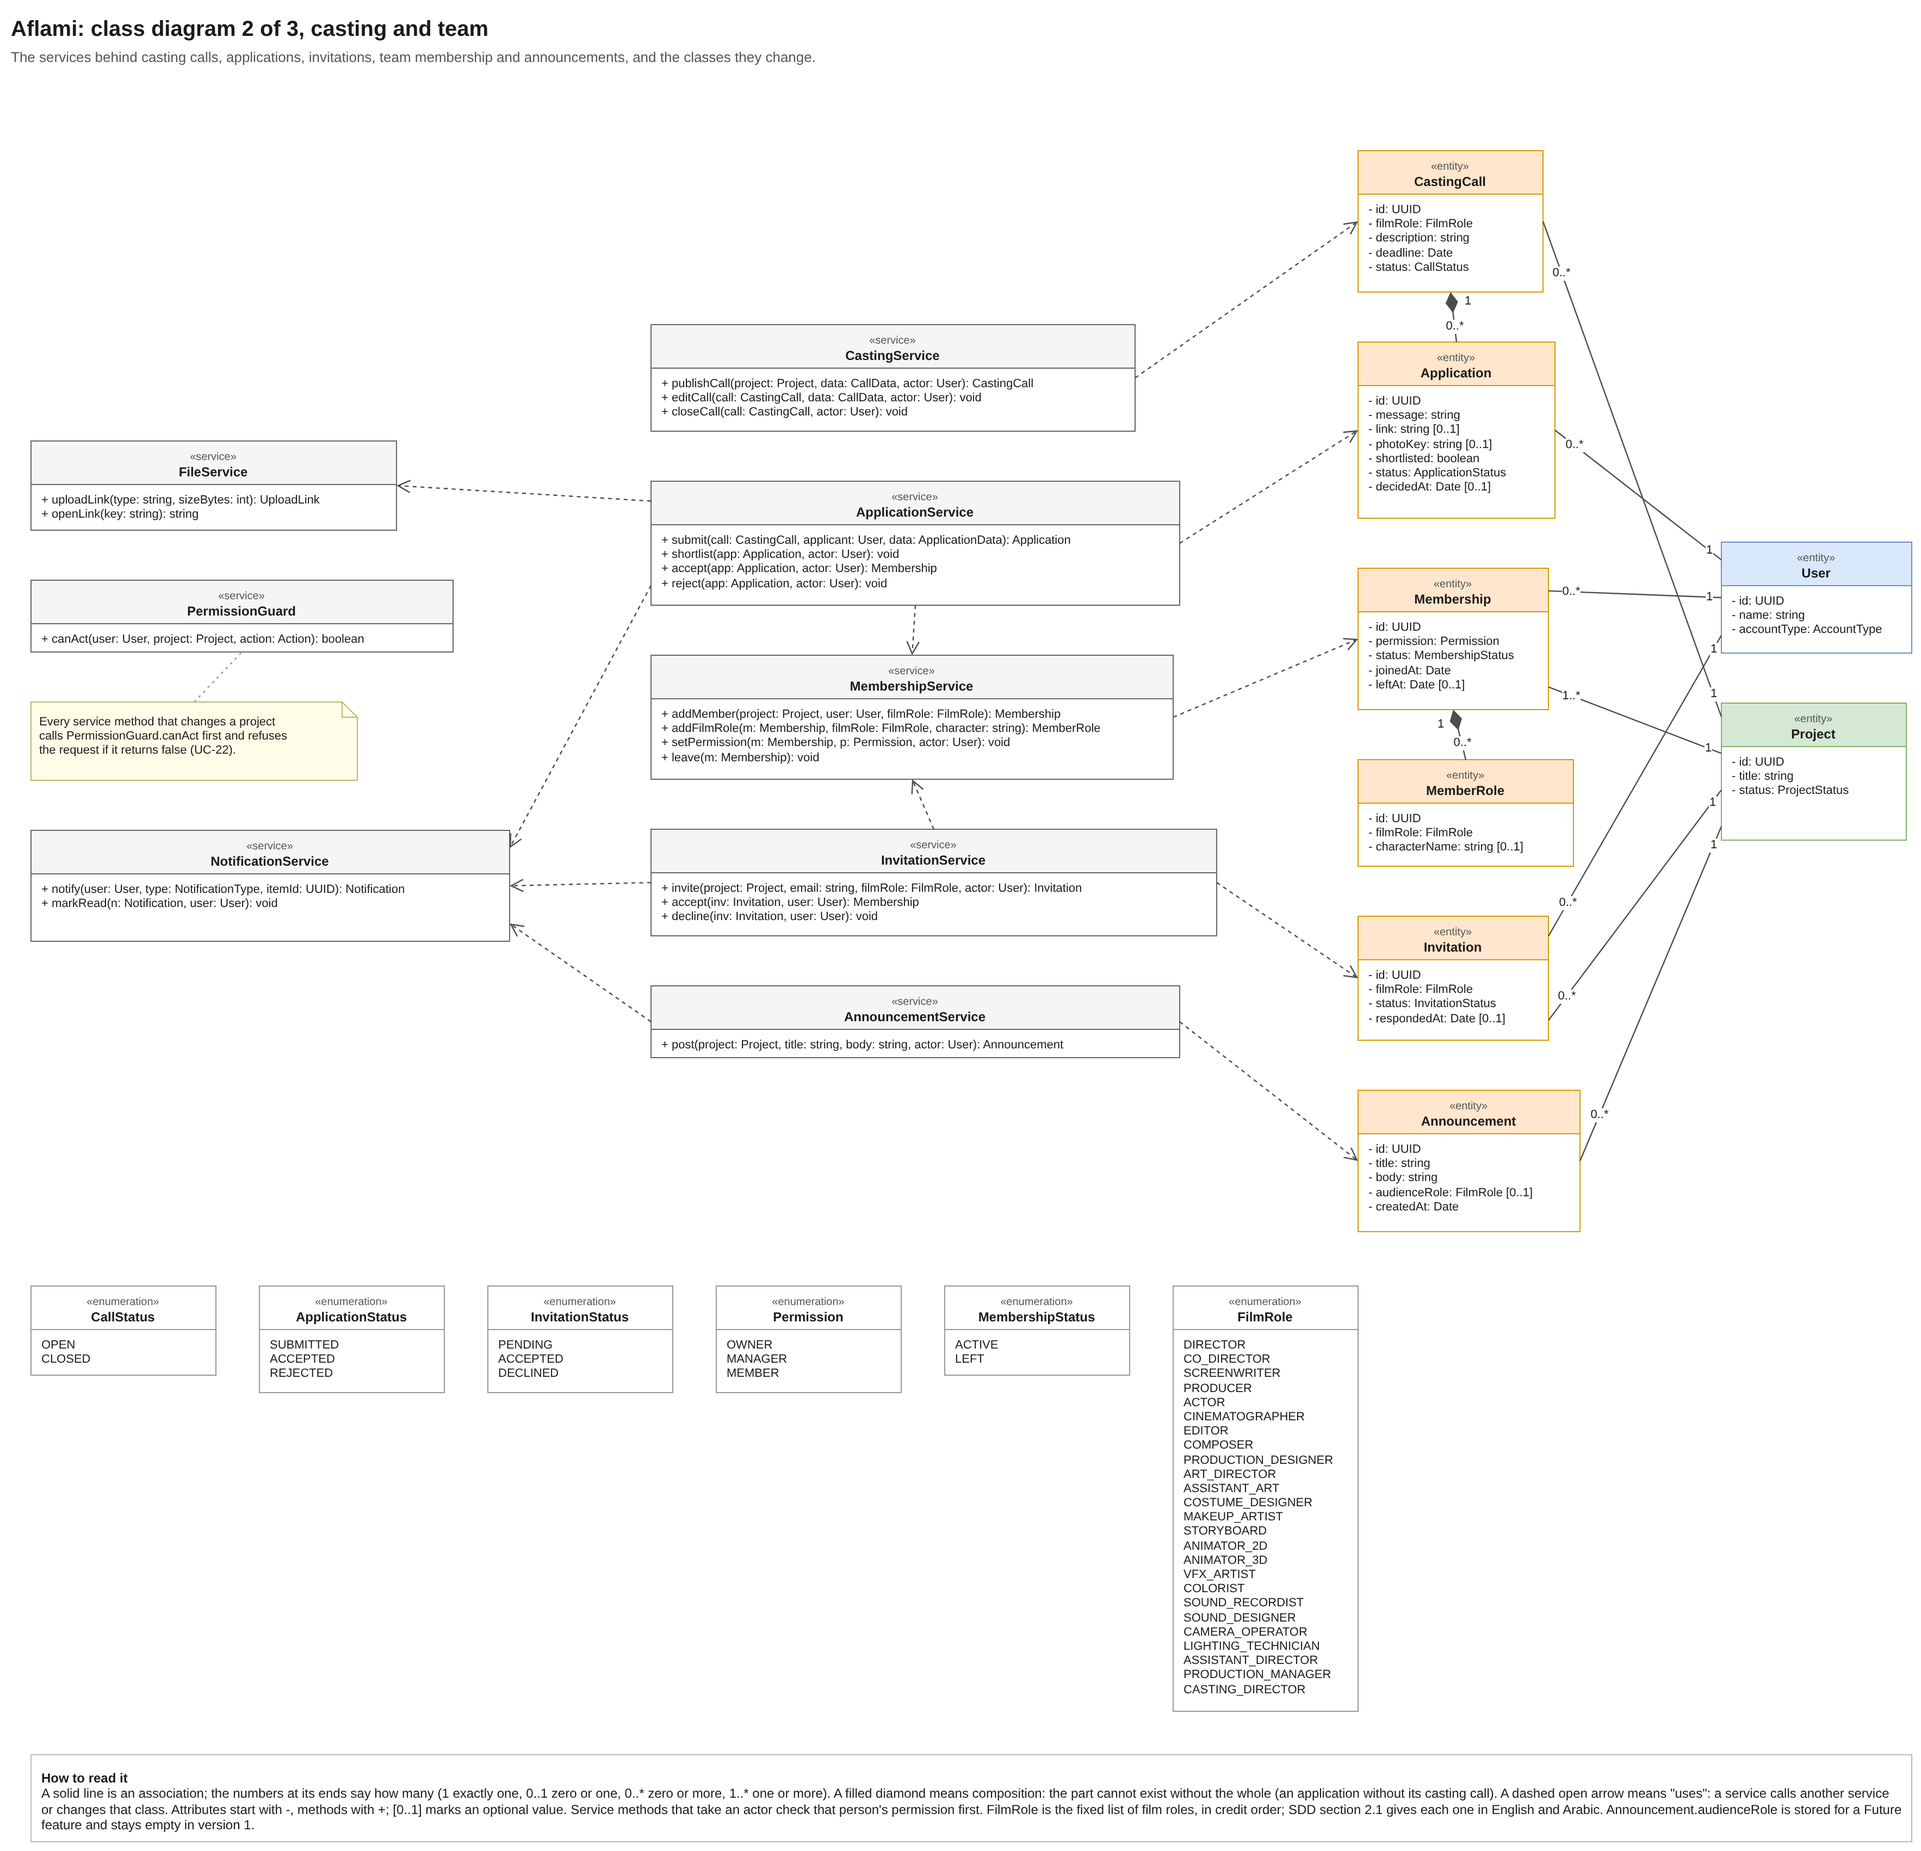
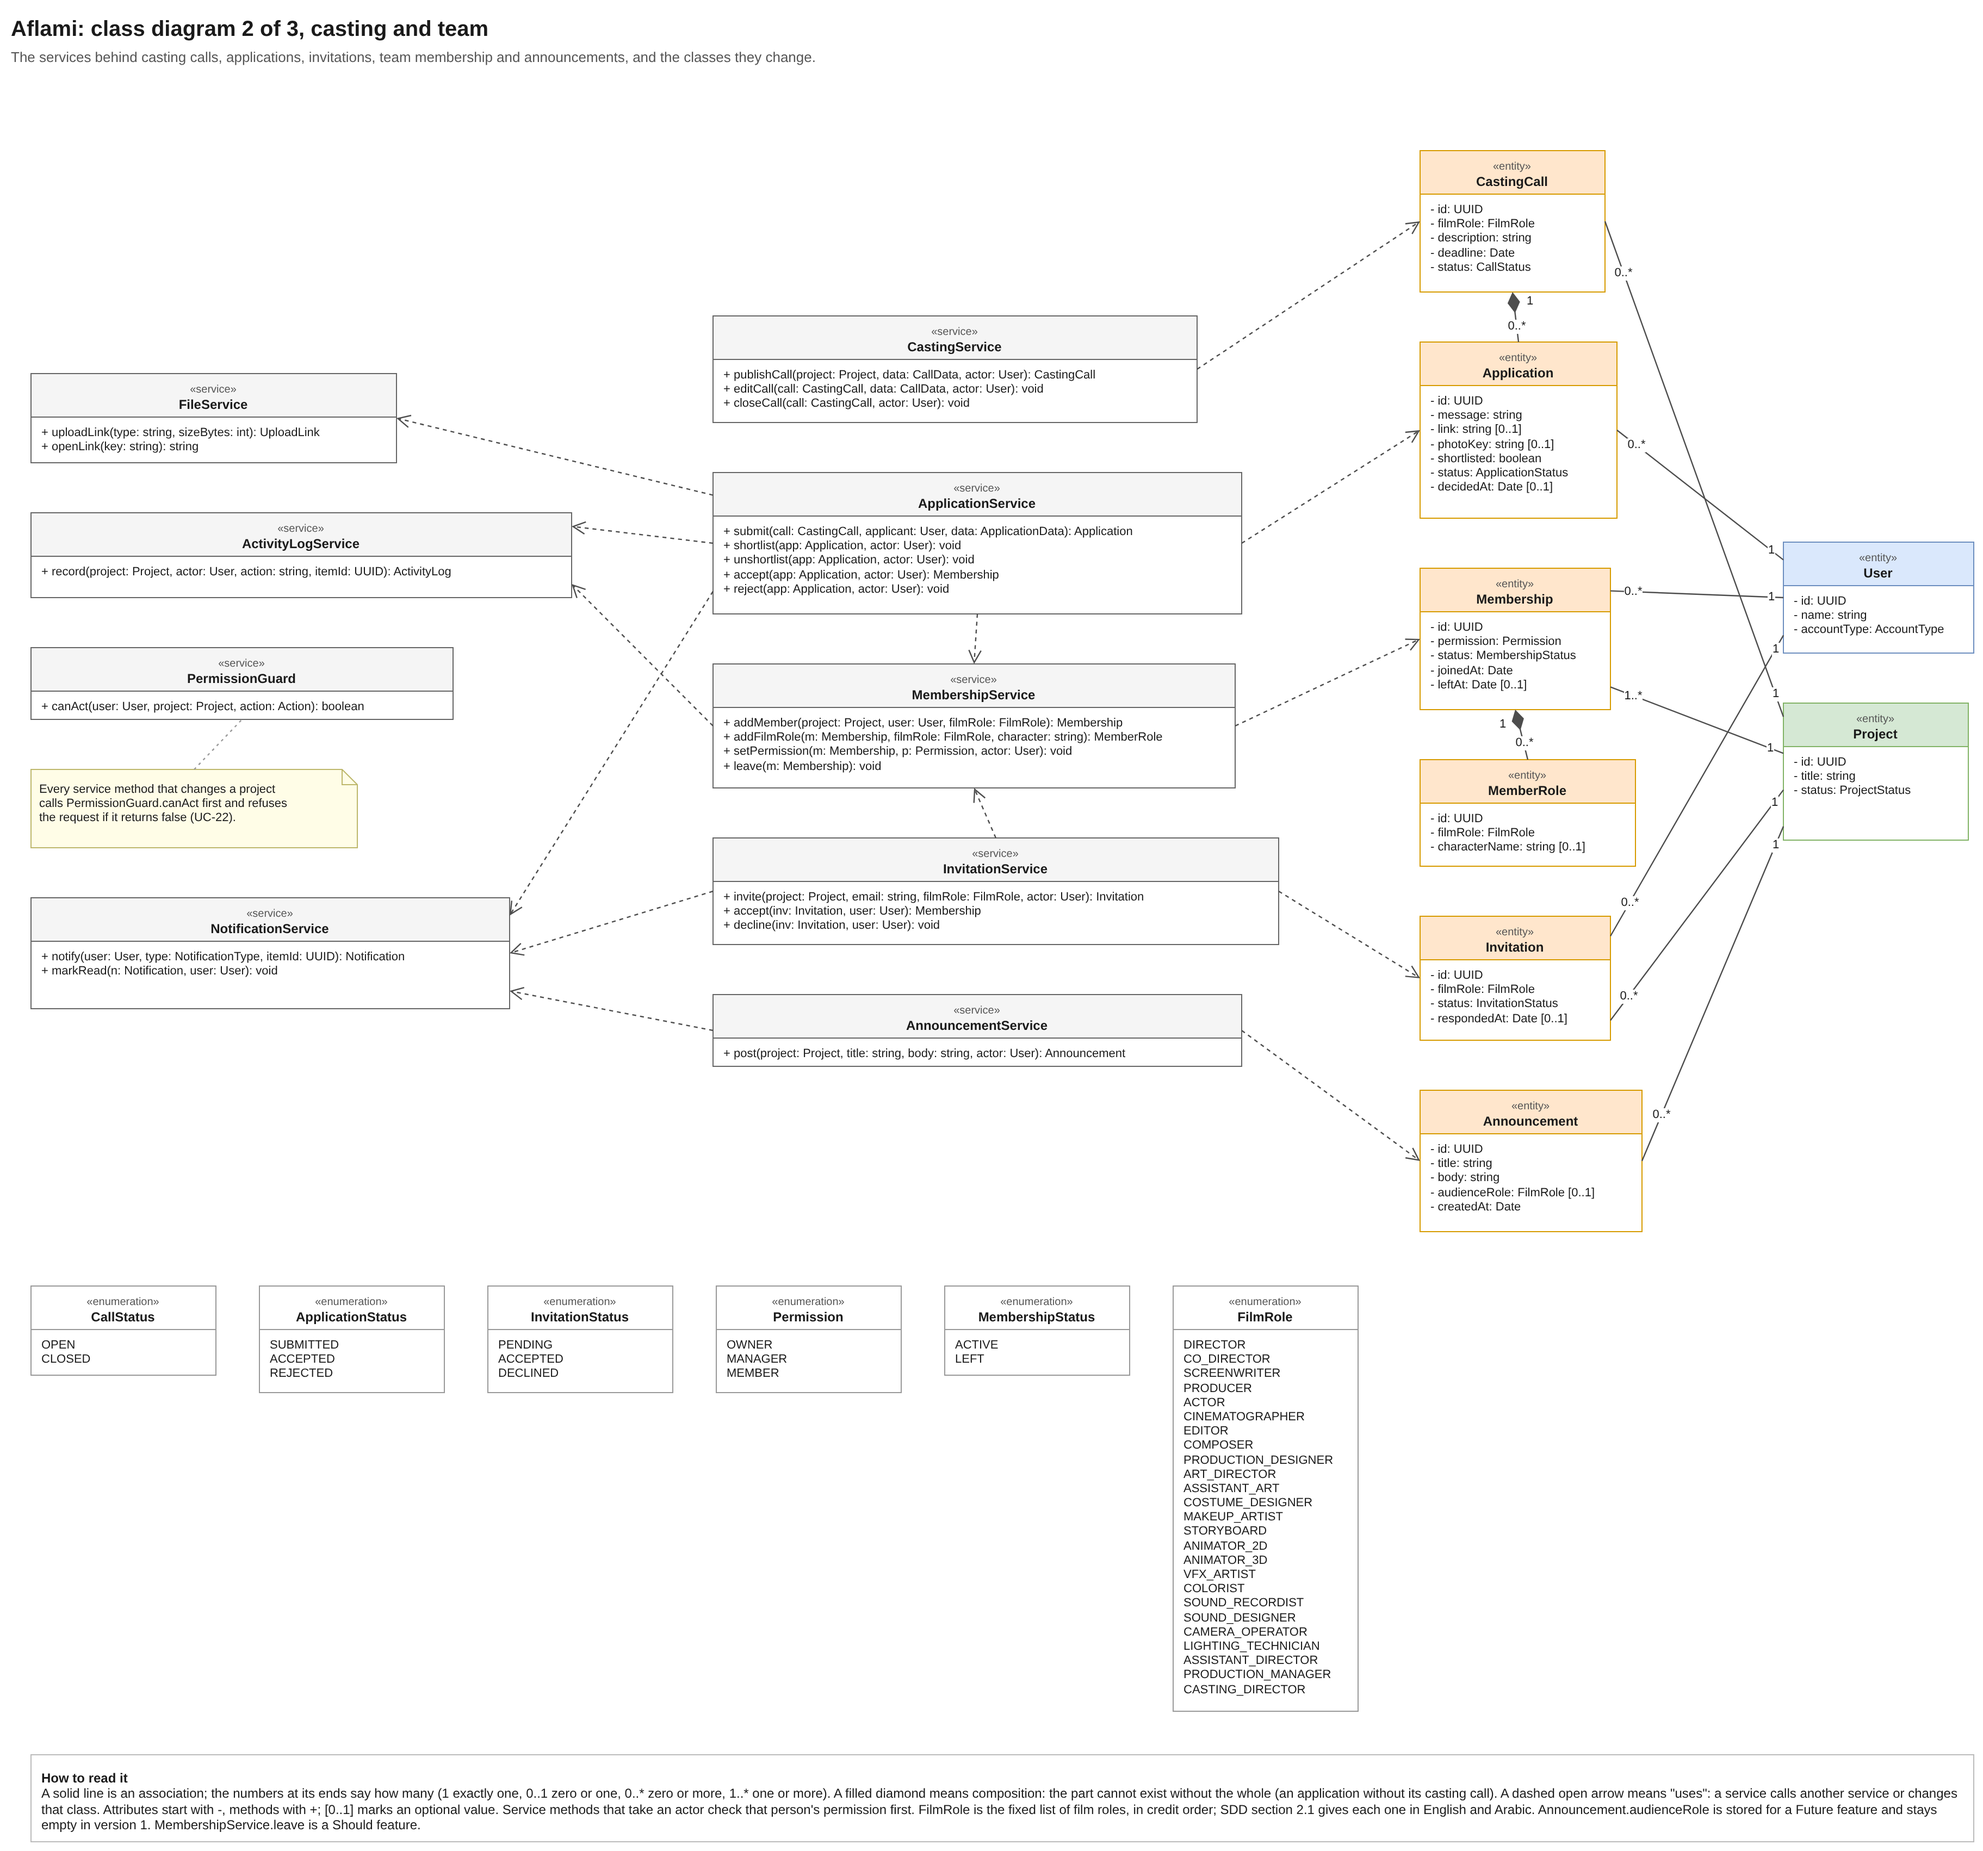
doc: update Class diagram

diff --git a/docs/design/Aflami_SDD.md b/docs/design/Aflami_SDD.md
@@ -299,15 +299,15 @@ Sources: `design/diagrams/Aflami_Class_Diagram.drawio`, `design/diagrams/Aflami_
 | FileService | Shared | uploadLink(type, sizeBytes): UploadLink (checks the type and size, then a signed link for one upload); openLink(key): string (a link that expires) |
 | ActivityLogService | Shared | record(project, actor, action, itemId): ActivityLog |
 | AccountService | Accounts | register(data): User; signIn(email, password): Session; signOut(session): void; changePassword(user, oldPassword, newPassword): void; becomeCreator(user): void; updateSettings(user, data): UserSettings |
-| ProjectService | Projects | create(owner, data): Project (also creates the film's single episode); update(project, data, actor): void; addEpisode(project, data, actor): Episode (series, Should); updateEpisode(episode, data, actor): void (details and YouTube link); publish(project, actor): void; setHidden(project, hidden, actor): void; missingForPublish(project): string[] |
+| ProjectService | Projects | create(owner, data): Project (also creates the film's single episode); update(project, data, actor): void; addEpisode(project, data, actor): Episode (series, Should); updateEpisode(episode, data, actor): void (details and YouTube link); publishEpisode(episode, actor): void (series, Should); publish(project, actor): void; setHidden(project, hidden, actor): void; missingForPublish(project): string[] |
 | ScriptService | Projects | upload(episode, fileKey, actor): Script (replaces the previous script) |
 | CastingService | Casting and team | publishCall(project, data, actor): CastingCall; editCall(call, data, actor): void; closeCall(call, actor): void |
 | ApplicationService | Casting and team | submit(call, applicant, data): Application; shortlist(app, actor): void; unshortlist(app, actor): void; accept(app, actor): Membership; reject(app, actor): void |
 | InvitationService | Casting and team | invite(project, email, filmRole, actor): Invitation; accept(inv, user): Membership; decline(inv, user): void |
-| MembershipService | Casting and team | addMember(project, user, filmRole): Membership; addFilmRole(membership, filmRole, character): MemberRole; setPermission(membership, permission, actor): void; leave(membership): void |
+| MembershipService | Casting and team | addMember(project, user, filmRole): Membership; addFilmRole(membership, filmRole, character): MemberRole; setPermission(membership, permission, actor): void; leave(membership): void (Should) |
 | AnnouncementService | Casting and team | post(project, title, body, actor): Announcement (notifies every active member) |
 | TaskService | Tasks | create(project, data, actor): Task; assign(task, owner, actor): void; updateStatus(task, status, user): void; reopen(task, actor): void; attach(task, fileKeyOrUrl, user): TaskAttachment |
-| CreditService | Film page | proposeFromTeam(project): Credit[] (in the order of the film role list); edit(credit, data, actor): void; approve(credit, actor): void |
+| CreditService | Film page | proposeFromTeam(project, actor): Credit[] (in the order of the film role list); add(project, data, actor): Credit (someone without an Aflami account, Should); edit(credit, data, actor): void; approve(credit, actor): void; remove(credit, actor): void (a Proposed line only) |
 | RatingService | Film page | rate(project, user, stars): Rating; react(project, user, value): Reaction (Should) |
  
 *The use cases' supporting steps map onto these methods: UC-17 Upload a file is `FileService.uploadLink`, after which the browser uploads the file itself, UC-20 Notify a user is `NotificationService.notify`, UC-21 Add a team member is `MembershipService.addMember`, and UC-22 Check permission is `PermissionGuard.canAct`.*
@@ -483,4 +483,6 @@ Seven diagram types make the full set the supervisor asked for; tick each when i
 - [x] Activity diagram, section 4 (Abdullah, week 13)
 - [x] State diagrams: the journey overview, and diagrams 1 to 4 for the team, the tasks, the credits and the project, section 5 (Abdullah, week 13)
 - [ ] Sequence diagrams SD-1 to SD-3 (Abdullah) and SD-4 (Anas), section 6 (week 13); SD-1 to SD-3 are done, SD-4 is next
+
+
 
